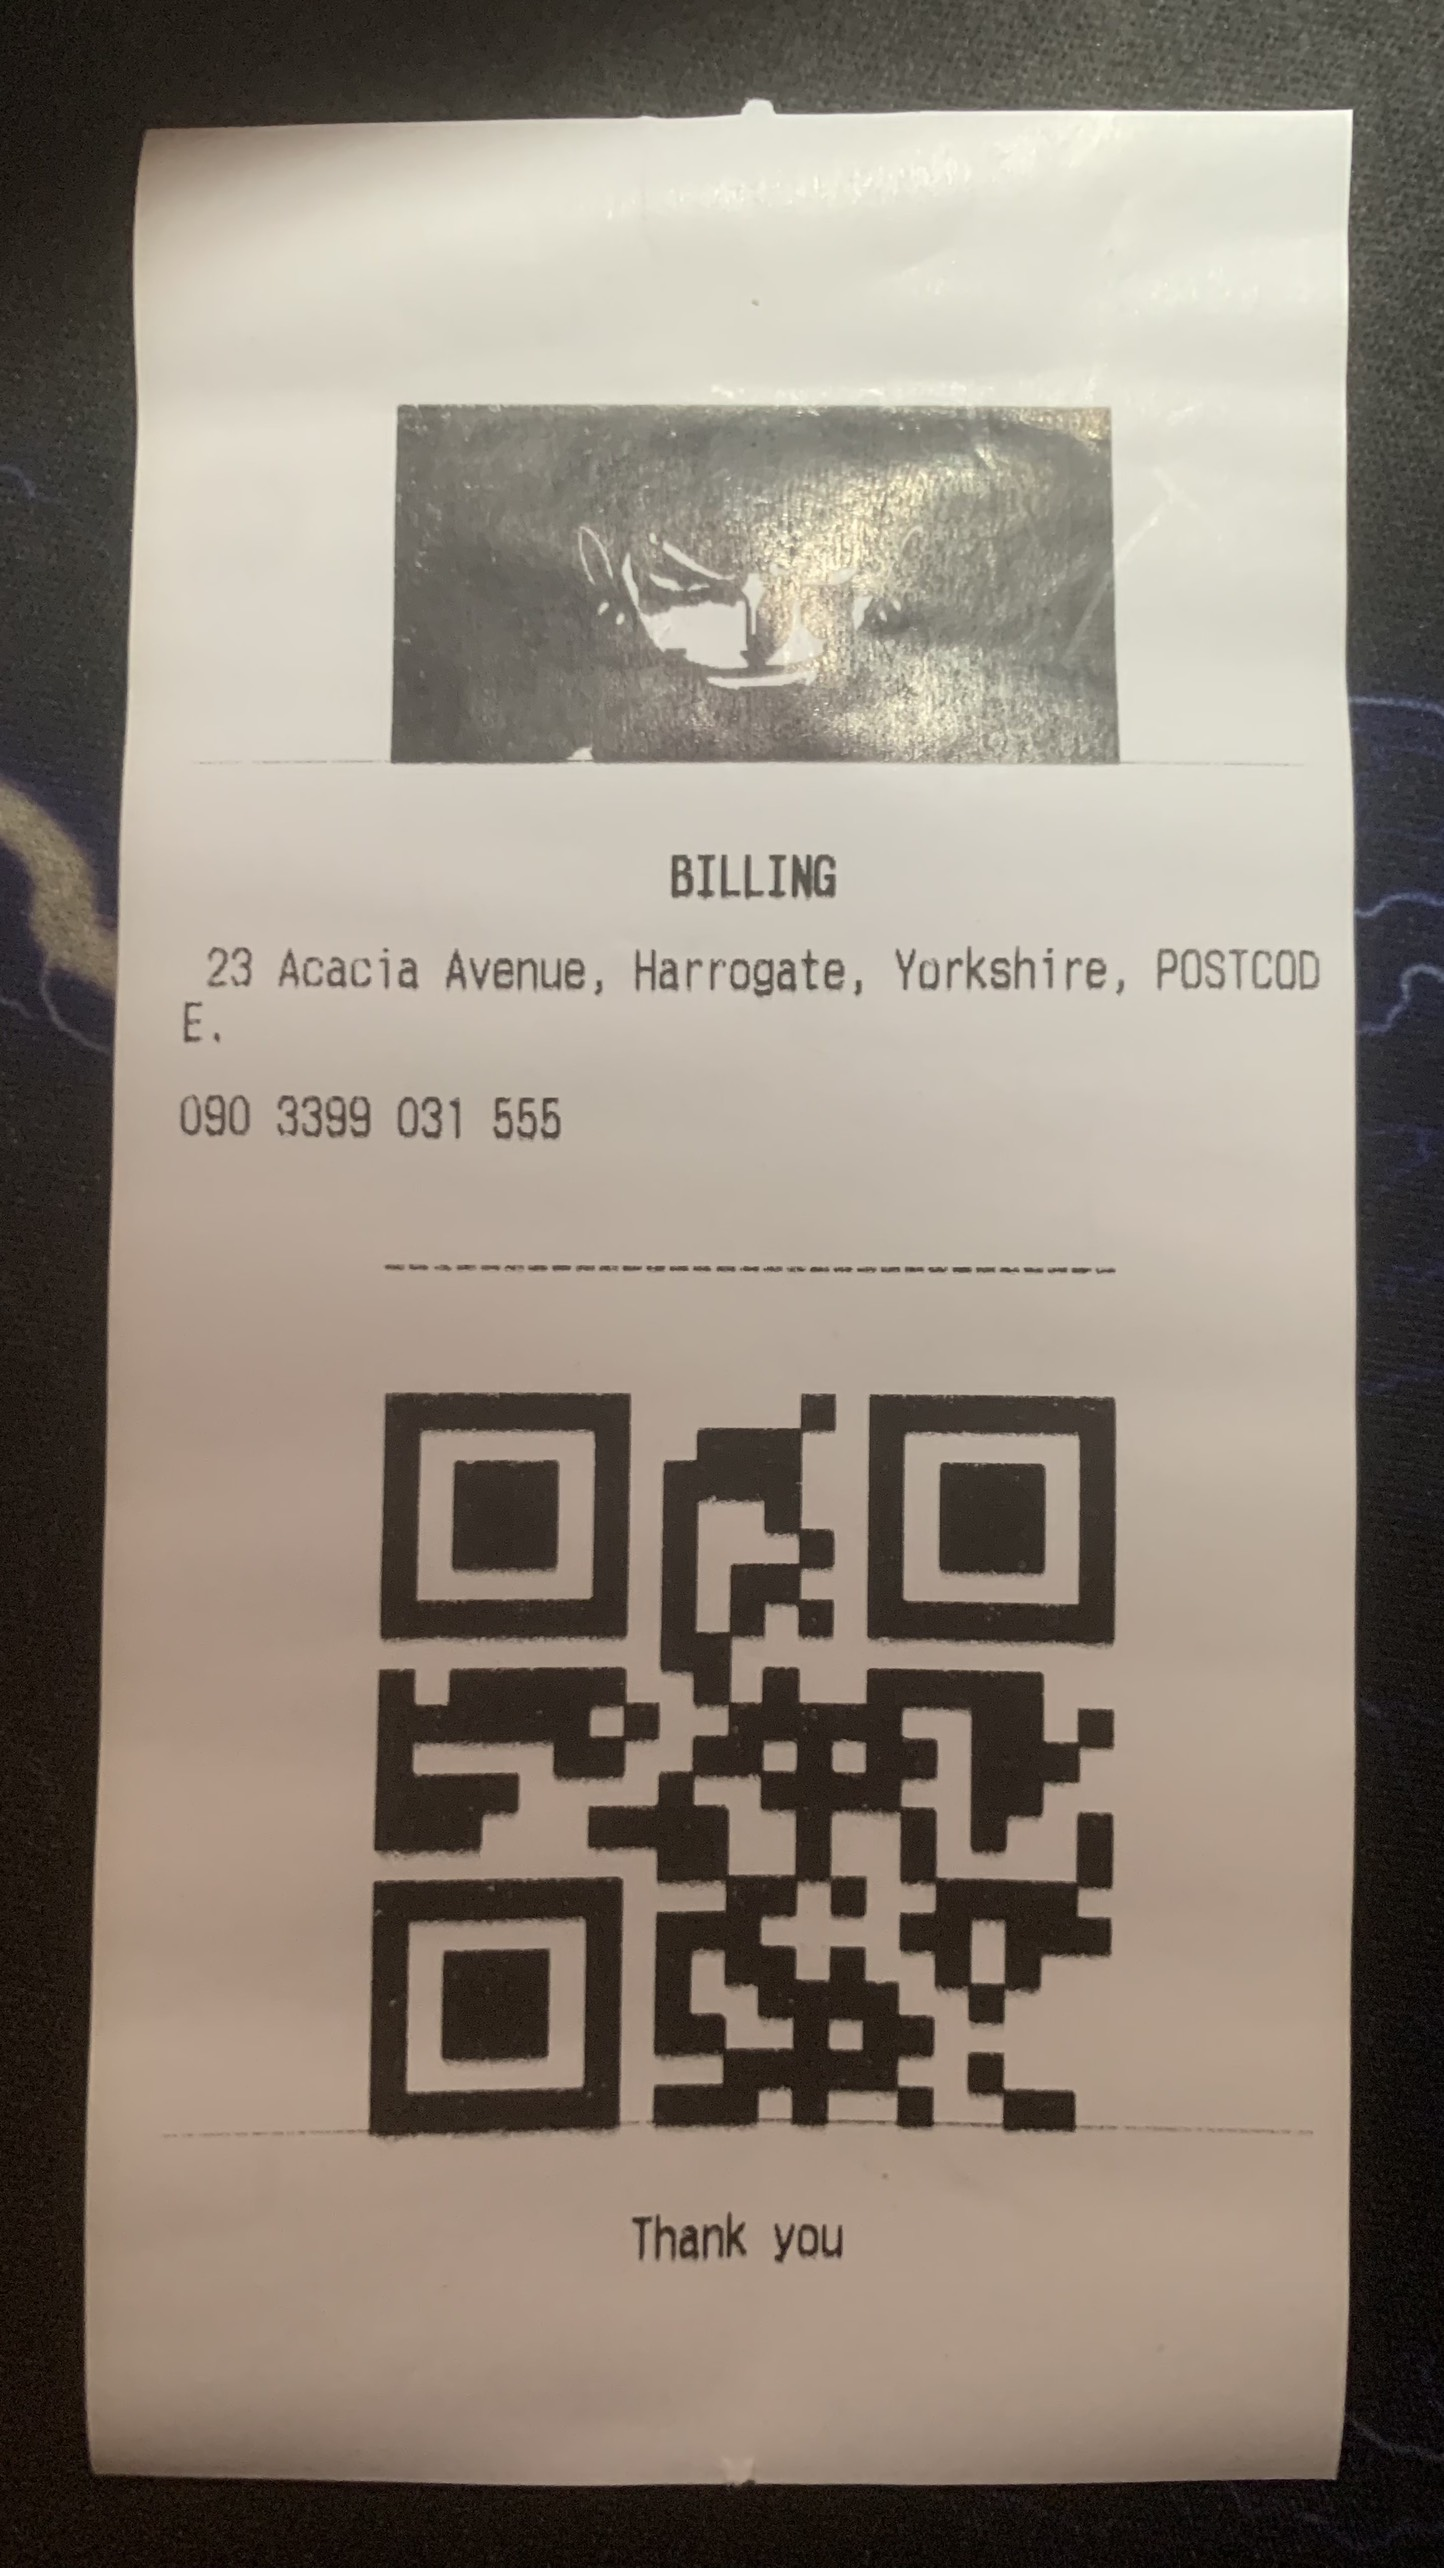
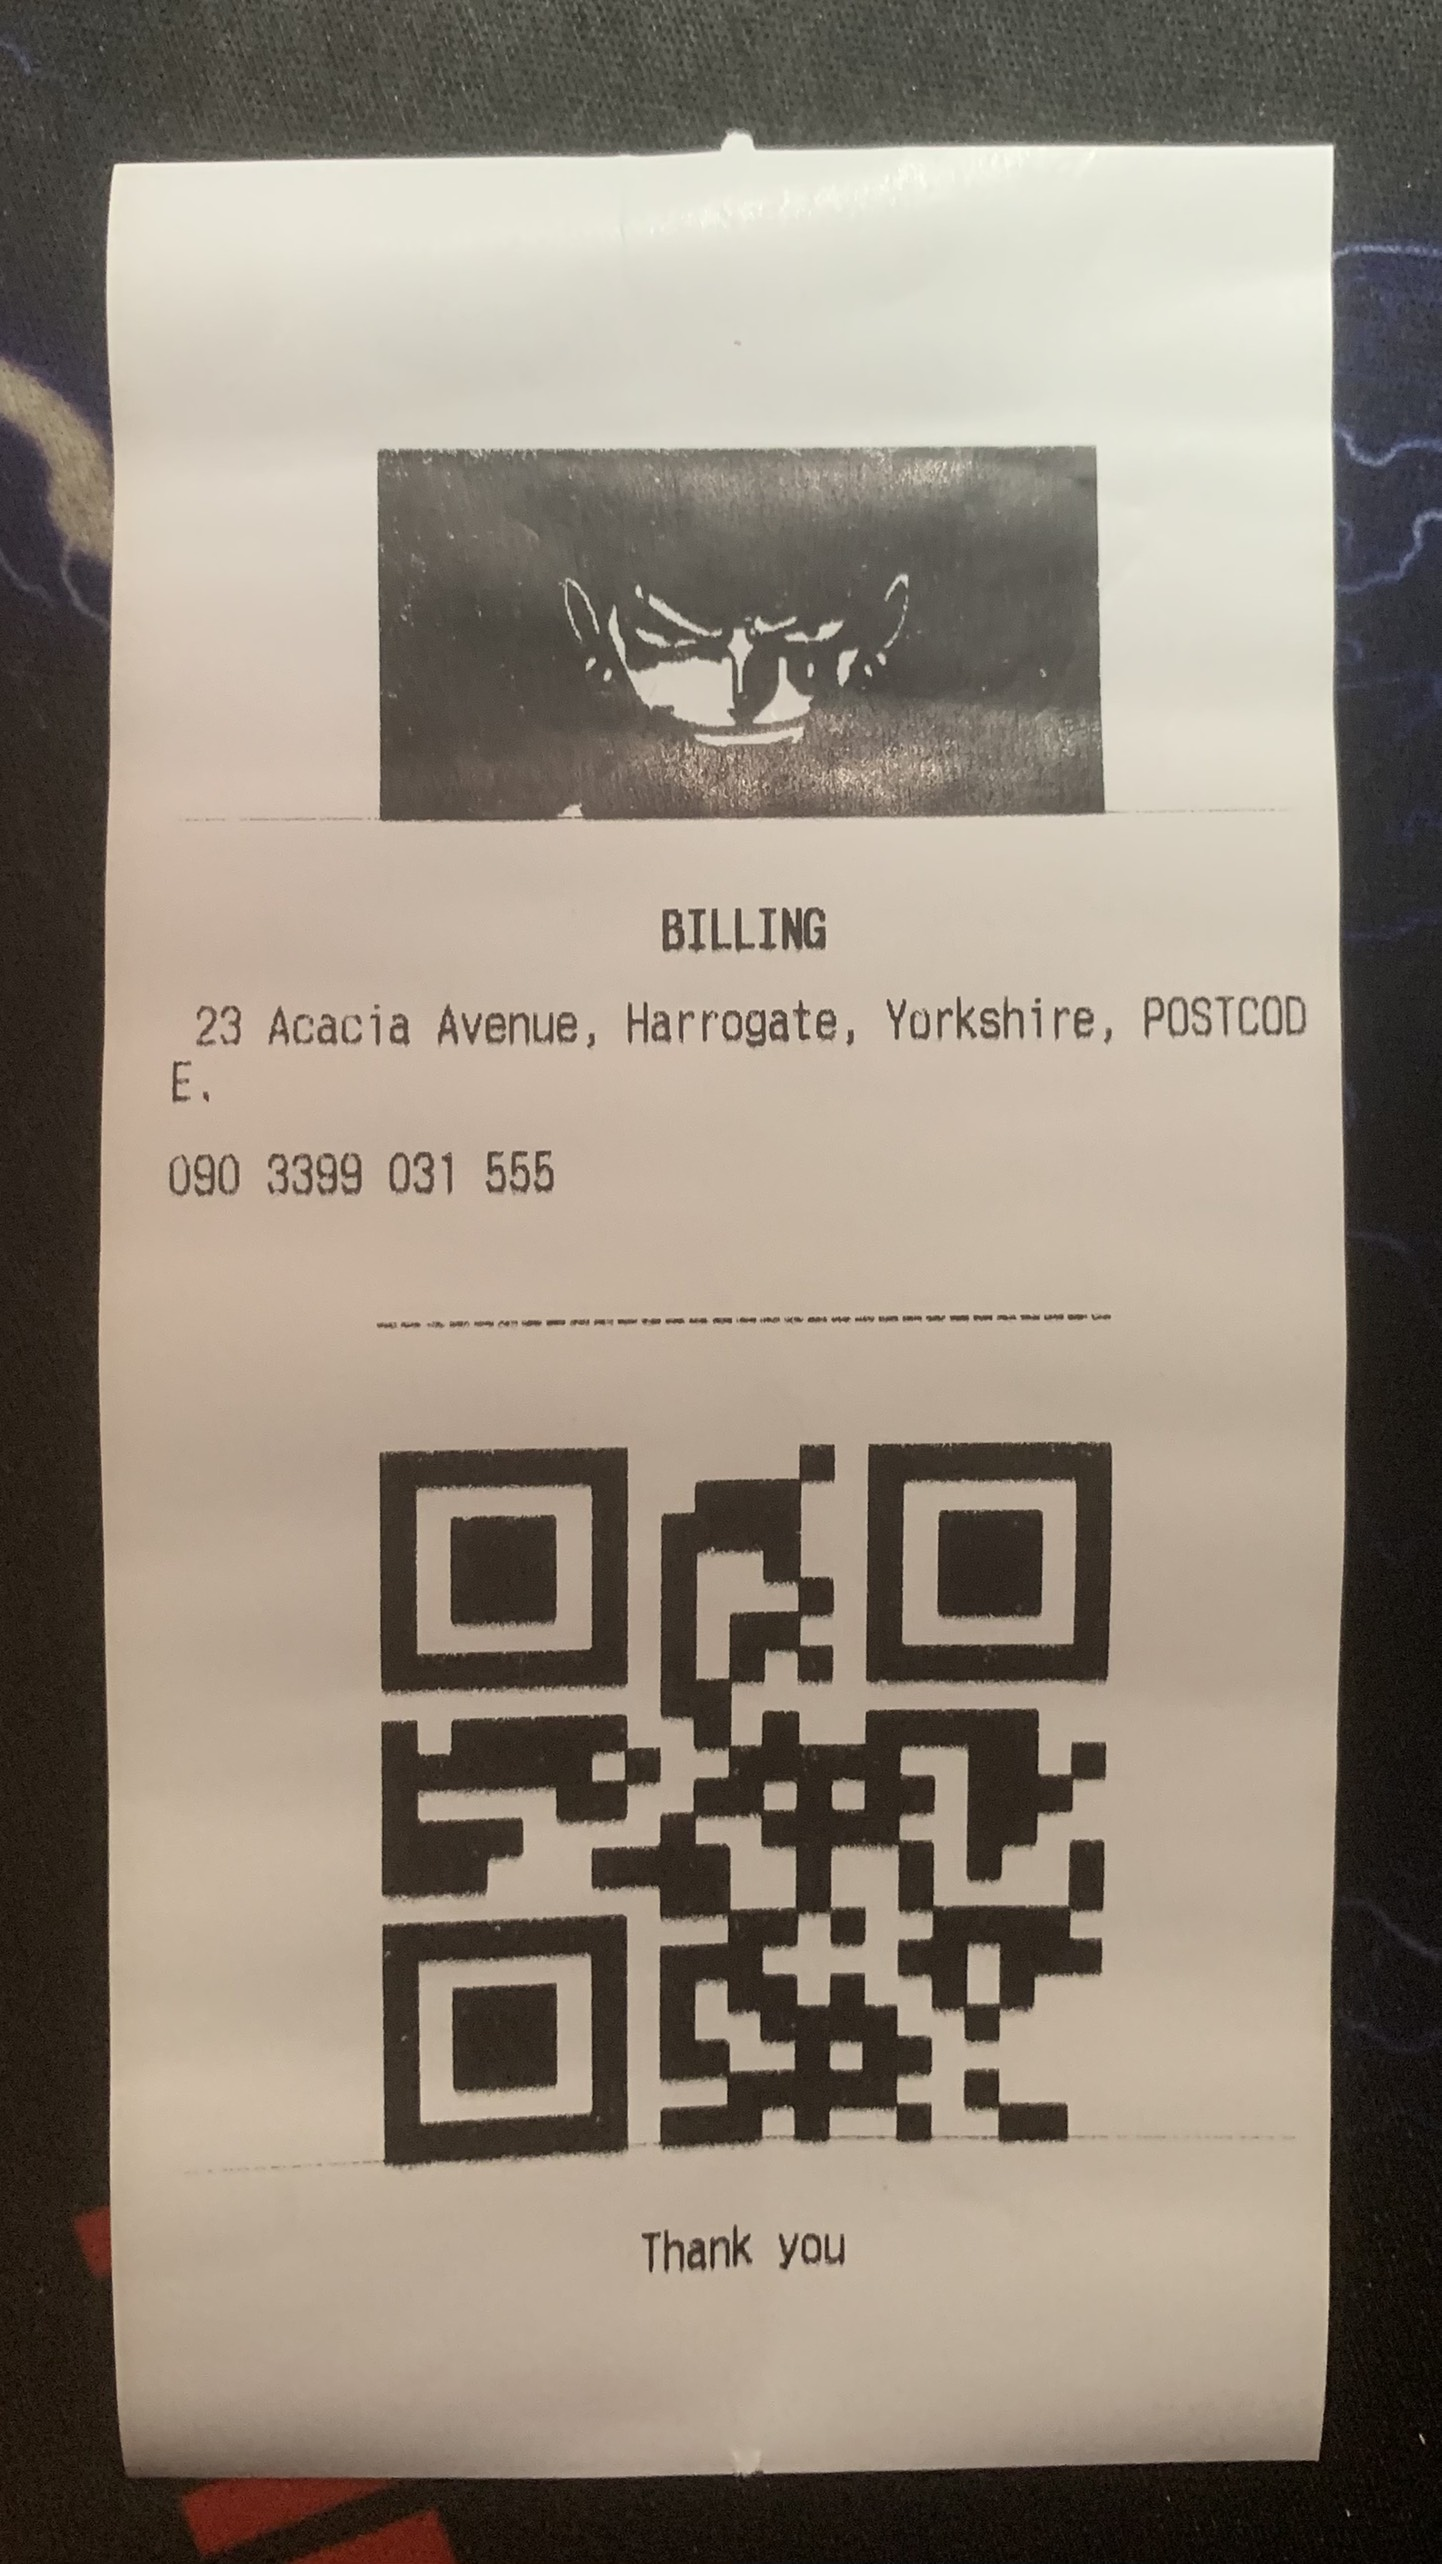
:pill:

diff --git a/example/src/App.tsx b/example/src/App.tsx
@@ -21,7 +21,7 @@ export const App = () => {
           name="Home"
           component={HomeScreen}
           options={{
-            headerTitle: 'ODA Printer Demo',
+            headerTitle: 'Printer Demo',
           }}
         />
         <Stack.Screen

diff --git a/README.md b/README.md
@@ -252,6 +252,9 @@ _Note:_ get list device for net printers is support scanning in local ip but not
   printTextTest = () => {
     if (this.state.currentPrinter) {
       NetPrinter.printText("<C>sample text</C>\n");
+      NetPrinter.printImage("https://sportshub.cbsistatic.com/i/2021/04/09/9df74632-fde2-421e-bc6f-d4bf631bf8e5/one-piece-trafalgar-law-wano-anime-1246430.jpg");
+      NetPrinter.printQrCode("your qr base64");
+      NetPrinter.printBill("<C>thank you</C>\n");
     }
   }
 
@@ -259,7 +262,7 @@ _Note:_ get list device for net printers is support scanning in local ip but not
     if(this.state.currentPrinter) {
       NetPrinter.printBill("<C>sample bill</C>");
     }
-  }
+  };
 
   ...
 
